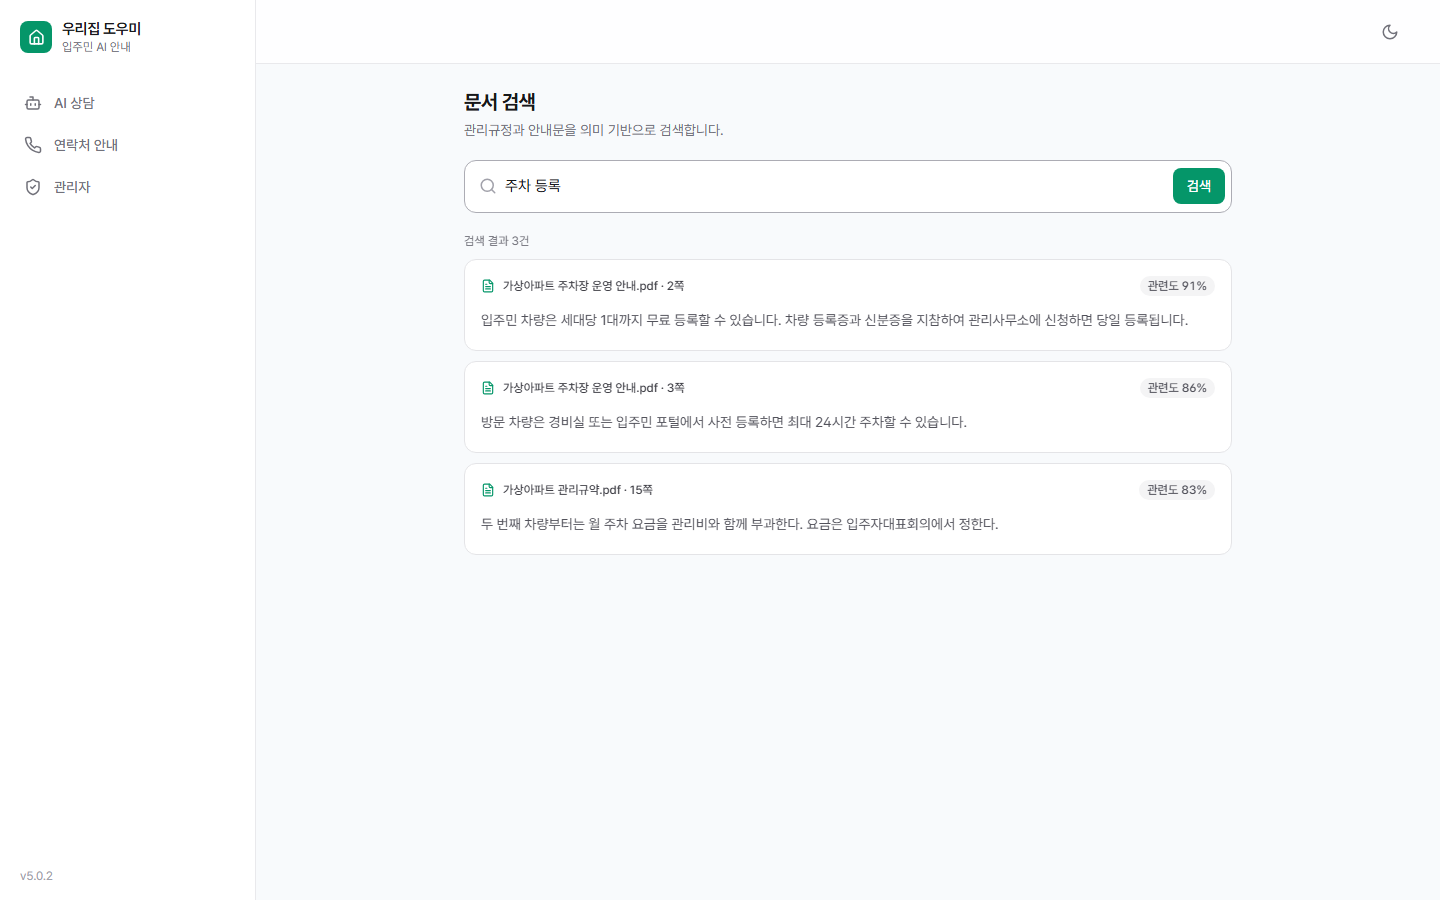
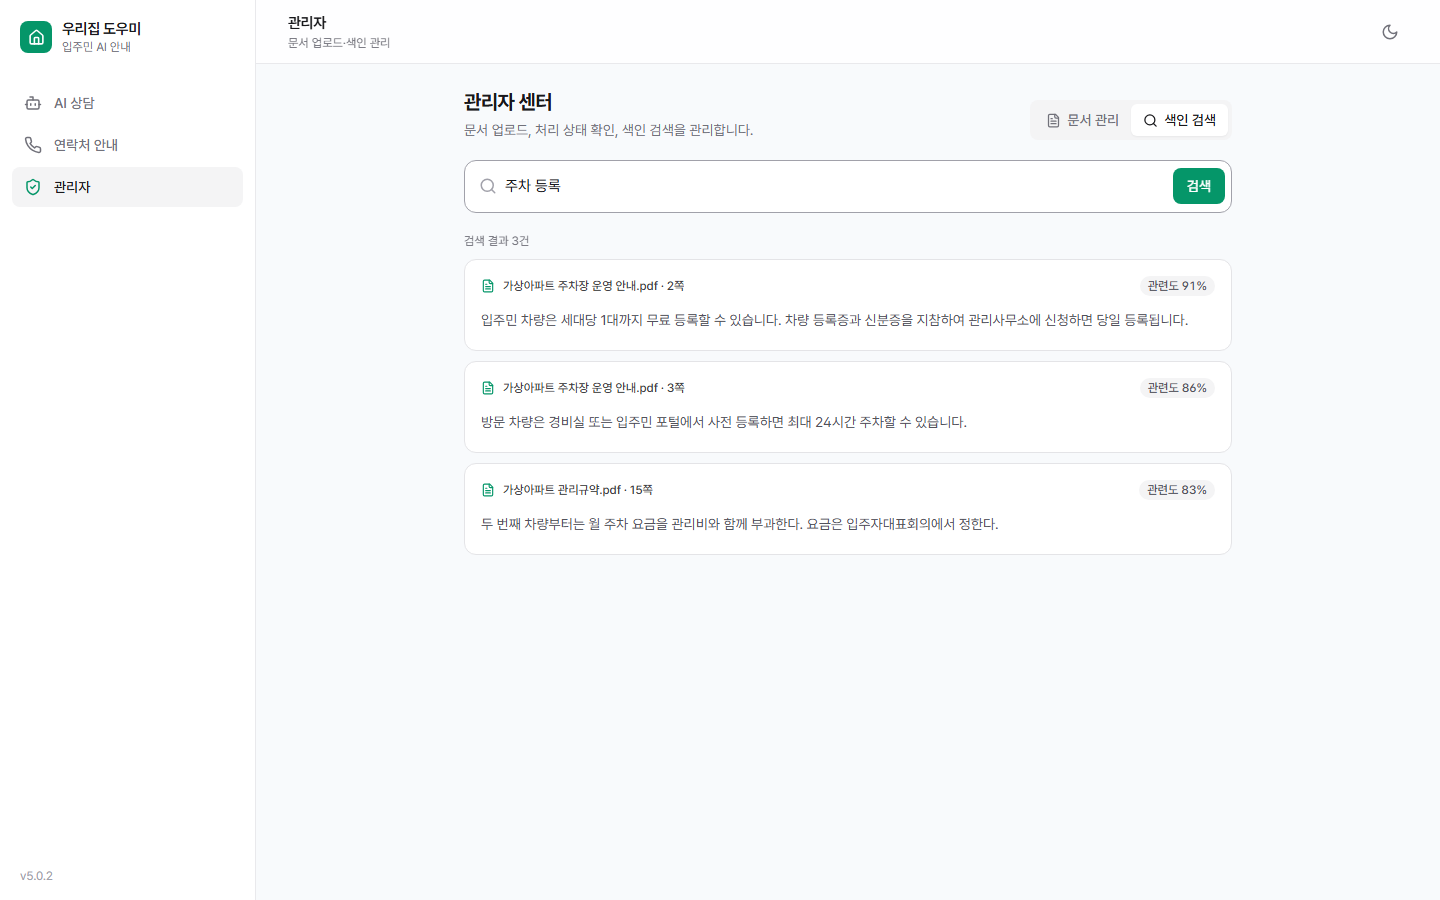
docs: retake search screenshot from admin tab, align README, bump CI actions

diff --git a/CHANGELOG.md b/CHANGELOG.md
@@ -16,9 +16,10 @@
 
 ### CI
 - GitHub Actions 워크플로를 추가했습니다(Node 20, lint → typecheck → test → build, dummy env, `contents: read`).
+- `actions/checkout`, `actions/setup-node`를 v5로 올려 Actions 런타임의 Node 20 사용 중단 경고를 없앴습니다.
 
 ### 스크린샷
-- Playwright 기반 `npm run screenshots`를 추가하고, mock fixture로 촬영한 채팅·검색·관리자·모바일·다크 테마 화면을 `docs/screenshots/`에 포함했습니다.
+- Playwright 기반 `npm run screenshots`를 추가하고, mock fixture로 촬영한 채팅·색인 검색(관리자 탭)·관리자·모바일·다크 테마 화면을 `docs/screenshots/`에 포함했습니다.
 
 ### 문서
-- README에 CI 배지, 버전, 스크린샷 표, 검증 방식 섹션을 추가했습니다.
+- README에 CI 배지, 버전, 스크린샷 표, 검증 방식 섹션을 추가하고 `/search` 경로 설명을 실제 메뉴 구성에 맞췄습니다.

diff --git a/README.md b/README.md
@@ -4,9 +4,9 @@
 
 주택 관리 문서를 업로드하고, 문서 내용을 바탕으로 질문에 답하는 RAG 데모입니다.
 
-| 채팅 | 문서 검색 |
+| 채팅 | 색인 검색 (관리자) |
 | --- | --- |
-| ![채팅](docs/screenshots/chat.png) | ![문서 검색](docs/screenshots/search.png) |
+| ![채팅](docs/screenshots/chat.png) | ![색인 검색](docs/screenshots/search.png) |
 | **관리자** | **다크 테마** |
 | ![관리자](docs/screenshots/admin.png) | ![다크 테마](docs/screenshots/dark.png) |
 
@@ -91,7 +91,7 @@ npm run dev
 ## 주요 경로
 
 - `/chat` — 문서 기반 채팅
-- `/search` — 문서 검색
+- `/search` — 문서 검색 단독 페이지 (사이드바 메뉴에는 없음, 관리자 > 색인 검색 탭과 같은 기능)
 - `/call` — 공개 데모 연락처 안내
 - `/admin` — 관리자 로그인 및 문서 관리
 - `/api/health` — 상태 확인
